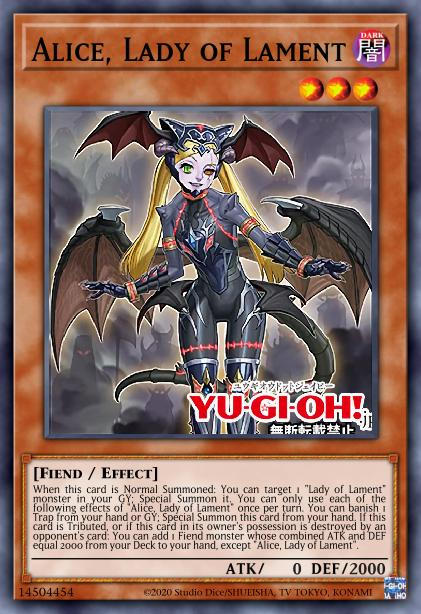
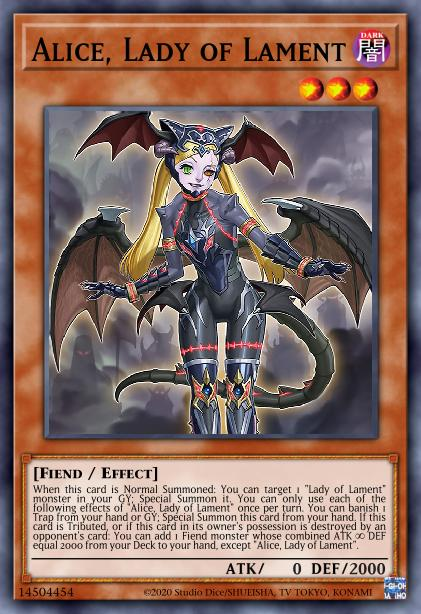
card text

diff --git a/script/fix.js b/script/fix.js
@@ -2046,19 +2046,19 @@ const fixDP06andDP07 = async () => {
 }
 
 
-const fixCardText = async (query, replacement) => {
+const fixCardText = async () => {
     let b = 0
     const cards = await Card.findAll({
         where: {
-            description: {[Op.substring]: query }
+            description: {[Op.substring]: '. ●' }
         }
     })
     
     for (let i = 0; i < cards.length; i++) {
         const card = cards[i]
-        card.description = card.description.replaceAll(query, replacement)
+        card.description = card.description.replaceAll('. ●', '.\n ●')
         await card.save()
-        console.log(`Changed description of ${card.name} replacing ${query} with ${replacement}`)
+        console.log(`Changed description of ${card.name} replacing ${'. ●'} with ${'.\n ●'}`)
         b++
     }
 
@@ -2093,7 +2093,8 @@ const fixNormals = async () => {
     return console.log(`fixed ${b} non-effect monsters`)
 }
 
-fixNormals()
+fixCardText()
+// fixNormals()
 // fixCardText('Dark monster', 'DARK monster')
 // fixCardText('Light monster', 'LIGHT monster')
 // fixCardText('Earth monster', 'EARTH monster')
